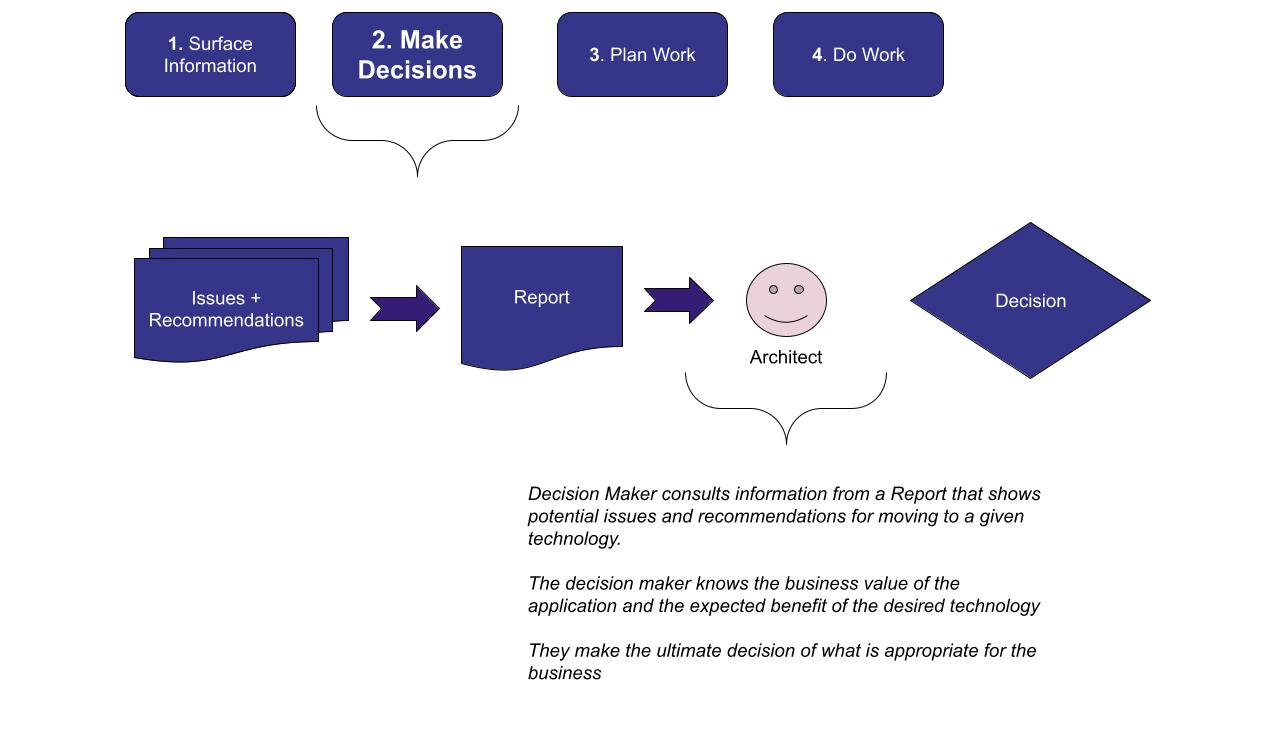
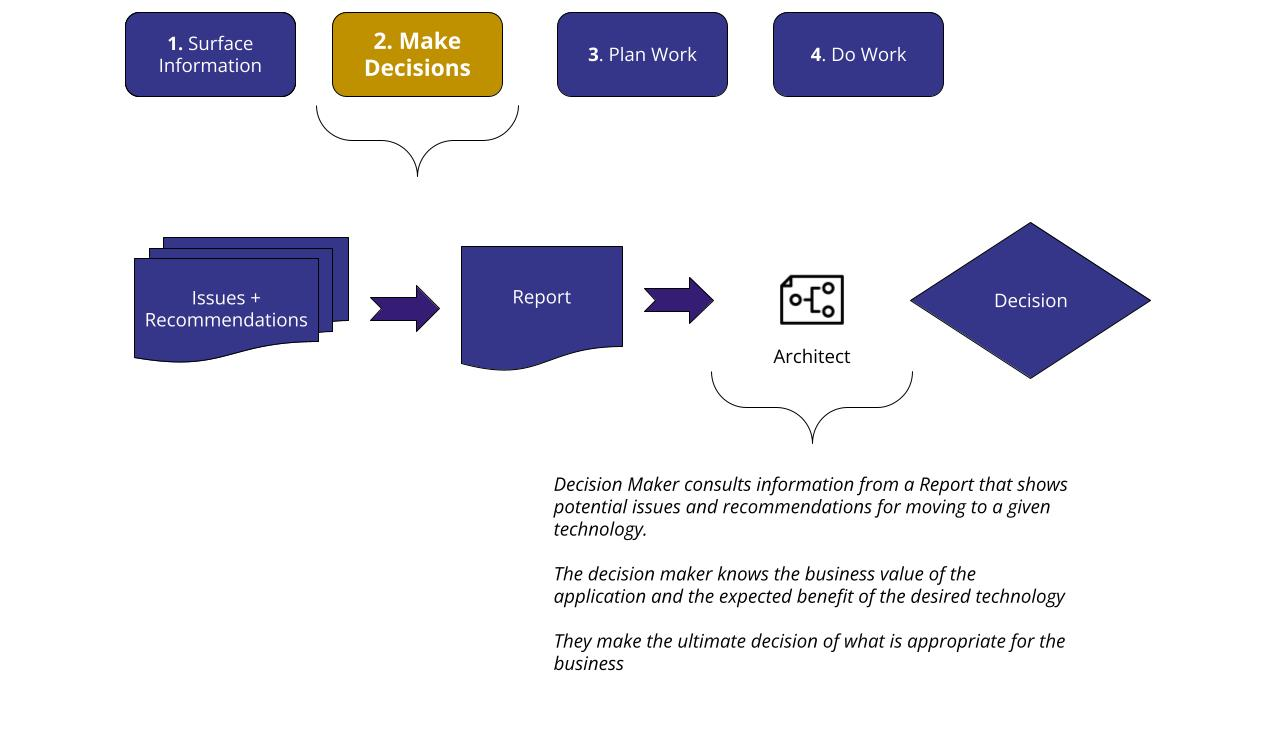
Updated diagrams and added additional context on the different sections

diff --git a/enhancements/unified_experience/README.md b/enhancements/unified_experience/README.md
@@ -4,7 +4,7 @@ authors:
 - "@jwmatthews"
 - "@rromannissen"
 creation-date: 2022-10-02
-last-updated: 2022-10-02
+last-updated: 2022-10-04
 ---
 # Konveyor Unified Experience
 Konveyor will provide a unified experience of tools to help organizations modernize their applications at scale,
@@ -13,16 +13,16 @@ form of 'guide rails' for the modernization journey.
 
 ## Konveyor Community Mission
 Konveyor's mission is to establish:
-> A community of people passionate about helping others modernize and migrate their applications to the hybrid cloud by 
-> building tools and best practices on how to replatform and refactor applications to run on Kubernetes and 
+> A community of people passionate about helping others modernize and migrate their applications to the hybrid cloud by
+> building tools and best practices on how to replatform and refactor applications to run on Kubernetes and
 > cloud-native technologies
 
 The community is focused on building:
-> The ultimate Open Source toolkit to help organizations safely migrate and modernize their application portfolio to 
+> The ultimate Open Source toolkit to help organizations safely migrate and modernize their application portfolio to
 > leverage Kubernetes, providing differential value on each stage of the adoption process
 
 ## Konveyor Methodology
-An open [methodology](https://github.com/konveyor/methodology) for migrating and modernizing applications to leverage 
+An open [methodology](https://github.com/konveyor/methodology) for migrating and modernizing applications to leverage
 Kubernetes has been contributed, providing suggestions for how to use the projects within the
 [Konveyor](www.konveyor.io) community to accelerate the process where applicable.
 
@@ -40,73 +40,74 @@ Kubernetes has been contributed, providing suggestions for how to use the projec
 5. [Scale](https://github.com/konveyor/methodology#scale) - Using the information collected in the previous points it is possible to offer a much more accurate estimate of the following steps. In addition, the definitive implementation strategy is defined with its associated project plan, including the design of the different teams to be involved in the migration and the management and communication model between them. Once everything is set, execution of the migration plan can be carried out, starting the “factory mode” in which applications are migrated in parallel by various teams in typically two-week sprints.
 
 
-This [methodology](https://github.com/konveyor/methodology) is the result of several years of working with many large 
-organizations, distilling the best practices for navigating and orchestrating modernization efforts safely at scale. 
+This [methodology](https://github.com/konveyor/methodology) is the result of several years of working with many large
+organizations, distilling the best practices for navigating and orchestrating modernization efforts safely at scale.
 
 See [github.com/konveyor/methodology](https://github.com/konveyor/methodology) for more info.
 
 # Unified Experience Overview
-The unified experience will be centered on surfacing information to a user so they may make informed business value 
+The unified experience will be centered on surfacing information to a user so they may make informed business value
 decisions in regard to application modernization.
 
 The unified experience aims to be developed in a technology-agnostic manner, meaning Konveyor will codify the workflow
-for a modernization journey, relying on additional components to provide the technology specific details.  The aim being 
-that this solution will be able to evolve in time as technology needs change beyond the initial goal of enabling 
+for a modernization journey, relying on additional components to provide the technology specific details.  The aim being
+that this solution will be able to evolve in time as technology needs change beyond the initial goal of enabling
 legacy applications to be modernized to Kubernetes.
+
 
 ## Workflow
 
 ![Workflow_SMPD](images/Workflow_SMPD.jpg)
 [Image Source](https://docs.google.com/drawings/d/1vHOKHUj7cSqawof9PQqb8zpsYyPCR3WL-Pz4GIBiYzE/edit)
 
-1. 'Surface Information': Surface information about applications (static code analysis & assessments) to a Decision Maker, storing information 
-in an 'Application Inventory' provided by a 'Hub'
-2. 'Make Decisions':  Aid a Decision Maker to make informed decisions about their modernization/migration needs 
-3. 'Plan Work': Help a Decision Maker plan work via 'Migration Waves'
-4. 'Do Work': Help a Developer complete the needed work by either scaffolding the beginning of projects and/or providing a 
+1. **Surface Information**: Gather information about applications (static code analysis & assessments) to a Decision Maker, storing information
+in an *Application Inventory* provided by a *Hub*.
+2. **Make Decisions**:  Aid a Decision Maker to make informed decisions about their modernization/migration needs.
+3. **Plan Work**: Help a Decision Maker plan work via 'Migration Waves'.
+4. **Do Work**: Help developers complete the needed migration and modernization work by providing assets and guidance through a
 catalog of integrated tools to aid specific workflows.
 
+
+While the workflow associated with the Unified Experience provides differential value on each one of the stages of the Konveyor migration methodology, the intent is to make it generic enough so it can be leveraged on different migration and modernization methodologies that organizations, GSIs and vendors might be used to follow. Konveyor won't be built to enforce a given methodology, but to **provide insights, guidance, assets and some degree of automation that can be leveraged on large scale migration projects**. The ultimate goal of Konveyor is to enable organizations to reduce the risk associated with large modernization initiatives by making the associated projects measurable and predictable.
 
 ## Personas
 Two initial personas are identified, with more to be added in the future.
 
-![Workflow_DoWork](images/Workflow_DoWork.jpg)
+![Workflow_DoWork](images/Workflow_Personas.jpg)
 [Image Source](https://docs.google.com/drawings/d/1ASbIjFKfQc88ZeL-Dm7RsfTNkxystsmgmZagrqk8q6o/edit)
 
 ### Architect
-'Architect': A decision maker, who will review information Konveyor surfaces about an application's suitability for a 
-given technology and ultimately make decisions of planning work for a 'Developer' to complete.
-* Surfaced information will be used to help this user make informed decisions, plan, and begin to execute 
-modernization work. 
-* Individual is expected to understand the business value an application provides and be capable
+
+
+A decision maker leading the modernization/migration initiative, who will review information Konveyor surfaces about an application's suitability for a given platform or runtime technology and ultimately make decisions of planning work for a **Migrator** to complete.
+* Surfaced information will be used to help this user make informed decisions, plan, and begin to execute
+modernization work.
+* Architects are expected to be knowledgeable individuals that understand the business value an application provides and are capable
 of weighing technical costs versus expected business value to decide on the best course for modernization need.
-* Optionally, they will seed development work for 'Developers' to handle identified issues
+* Optionally, they will seed development work for 'Migrators' to handle identified issues
 * Primary expected user of Konveyor's unified experience.
 
-### Developer
-'Developer': A software engineer assigned to handle the source code updates and development efforts to satisfy
-issues identified and allow the application to take advantage of the given target technology
+### Migrator
+
+
+A developer assigned to handle the source code updates and development efforts to satisfy issues identified and allow the application to run on a target platform or runtime technology and ideally leverage its capabilities.
 
 # Steps
 ## Step-1: Surface Information
 ![UnifiedVision_Step1](images/UnifiedVision_Step1.jpg)
 [Image Source](https://docs.google.com/drawings/d/1ghfkvMC0pePv9IyWou9uySN6m31sciclhLeP4OFCPek/edit)
 
-Step-1 is focused on uncovering information about issues and recommendations when considering a given application for a 
-desired technology.  This information is obtained from a mixture of static source code analysis along with 
-interviews with stakeholders to uncover information on processes, implied dependencies and other factors not readily 
-assessable from a pure code analysis perspective.
+Step-1 is focused on uncovering information about the application landscape in the organization, focusing on identifying patterns that allow to group applications by common attributes and finding issues and recommendations when considering the modernization or migration of any of these application types to leverage a given platform or runtime technology. This information is obtained from a mixture of static source code analysis along with interviews with stakeholders to uncover information on processes, implied dependencies and other factors not readily assessable from a pure code analysis perspective.
 
-The outcome of this step is a report of an application for a given technology to allow a stakeholder to make better 
-informed decisions.
+The outcome of this step is a report of an application for a given technology to allow a stakeholder to make better informed decisions.
 
 ## Step-2: Make Decisions
 ![UnifiedVision_Step2](images/UnifiedVision_Step2.jpg)
 [Image Source](https://docs.google.com/drawings/d/1lAFdJs7bVQW8P83AZuz3s8EXvGHZ7lTjGbyg46lBWe8/edit)
 
-Step-2 is focused on providing information to a stakeholder so they can understand the issues, costs, and complexities of 
-modifying an application for a given technology.  Konveyor is not intending to make automated decisions of modernization 
-needs, it is understood that modernization decisions involve choices of balancing business value and technical cost 
+Step-2 is focused on providing information to Architects so they can understand the issues, costs, and complexities of
+adapting each application type for a given technology.  Konveyor is not intending to make automated decisions of modernization
+needs, it is understood that modernization decisions involve choices of balancing business value and technical cost
 which is out of scope for the tooling to decide.
 
 ## Step-3: Plan Work
@@ -115,29 +116,32 @@ which is out of scope for the tooling to decide.
 
 Step-3 is focused on helping an Architect plan work via batching units of work together in 'Migration Waves'.
 
-Optionally, this step will allow integration with an external issue tracking system.  The expected workflow is that 
-integration with an external system, such as JIRA for example, would allow a JIRA Story/Task to be created per 
+Optionally, this step will allow integration with an external issue tracking system.  The expected workflow is that
+integration with an external system, such as Jira for example, would allow a Jira Story/Task to be created per
 application in the Migration Wave.
 
 ## Step-4: Do Work
 ![UnifiedVision_Step4](images/UnifiedVision_Step4.jpg)
 [Image Source](https://docs.google.com/drawings/d/1_1GPICFI1a7vNemhBdRKwfLU-39NHNpuKjEi-kKuOeg/edit)
 
-Step-4 is focused on helping the developer do the work for modernizing the application. 
+Step-4 is focused on helping the Migrator do the work for modernizing the application.
 
-It will be possible for the Architect to execute a series of tools to scaffold a new modernization project.
-For example, this could be:
-* onboard a Git repository to a CI/CD workflow
-* generate a Dockerfile
-* generate Kubernetes Deployment resources
-* run an Ansible playbook 
+It will be possible for the Architect to execute a series of tools to augment the source code project or repository associated to a given application by automatically generating different assets like the following:
 
-Intent is to scaffold the project to help the developer begin work at a better starting position.
+* Opinionated Application Lifecycle Management artifacts like CI/CD pipelines or externalized configuration models.
+* Dockerfiles to build application images
+* Kubernetes deployment manifests
+* Test cases describing the current functional profile of the application
+* When possible, transformed source code through the use of refactoring recipes
 
-Konveyor will integrate and provide tools that will aid specific modernization use-cases, yet it is _not_ 
+Intent is to augment the source code project to help Migrators begin work at a better starting position by allowing them to start deploying the application to be transformed in the target environment from the very moment the code is handed to them.
+
+On the other hand, Konveyor is also expected to provide guidance to the Migrators about the changes to be performed in the source code when adapting a given application. This is expected to be available through IDE extensions to minimize disruption and allow for a fully integrated experience in their usual development environment.
+
+Konveyor will integrate and provide tools that will aid specific modernization use-cases, yet it is _not_
 intended to become an 'easy button' that will 'automagically' refactor an application for a given technology.  
 That is considered out of scope for the project.  
-  
-It is imagined that a growing catalog of community tools will become available to aid the problems a developer faces
-with modernization use-cases.  This will make modernization exercises easier but is not intended to become a 
+
+It is imagined that a growing catalog of community tools will become available to aid the problems a Migrator faces
+with modernization use-cases.  This will make modernization exercises easier but is not intended to become a
 fully automated experience without developer intervention.
